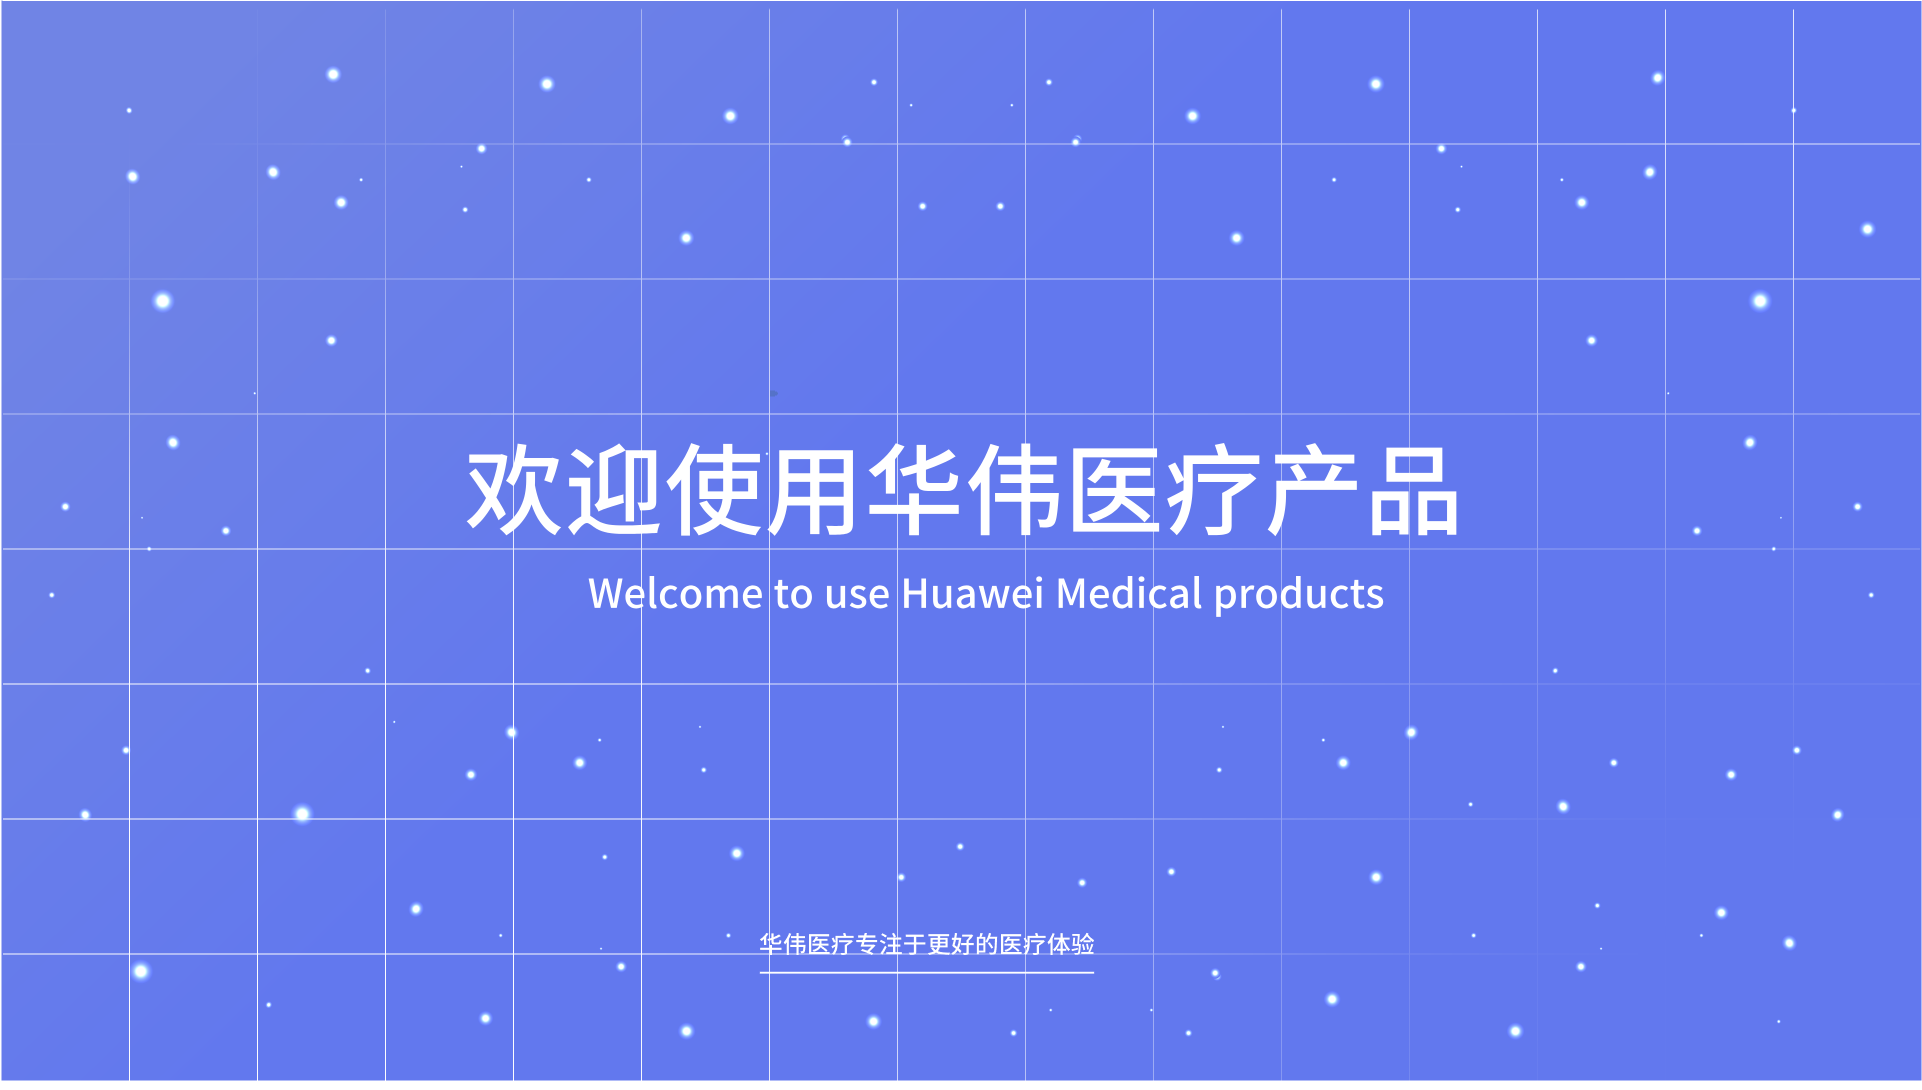
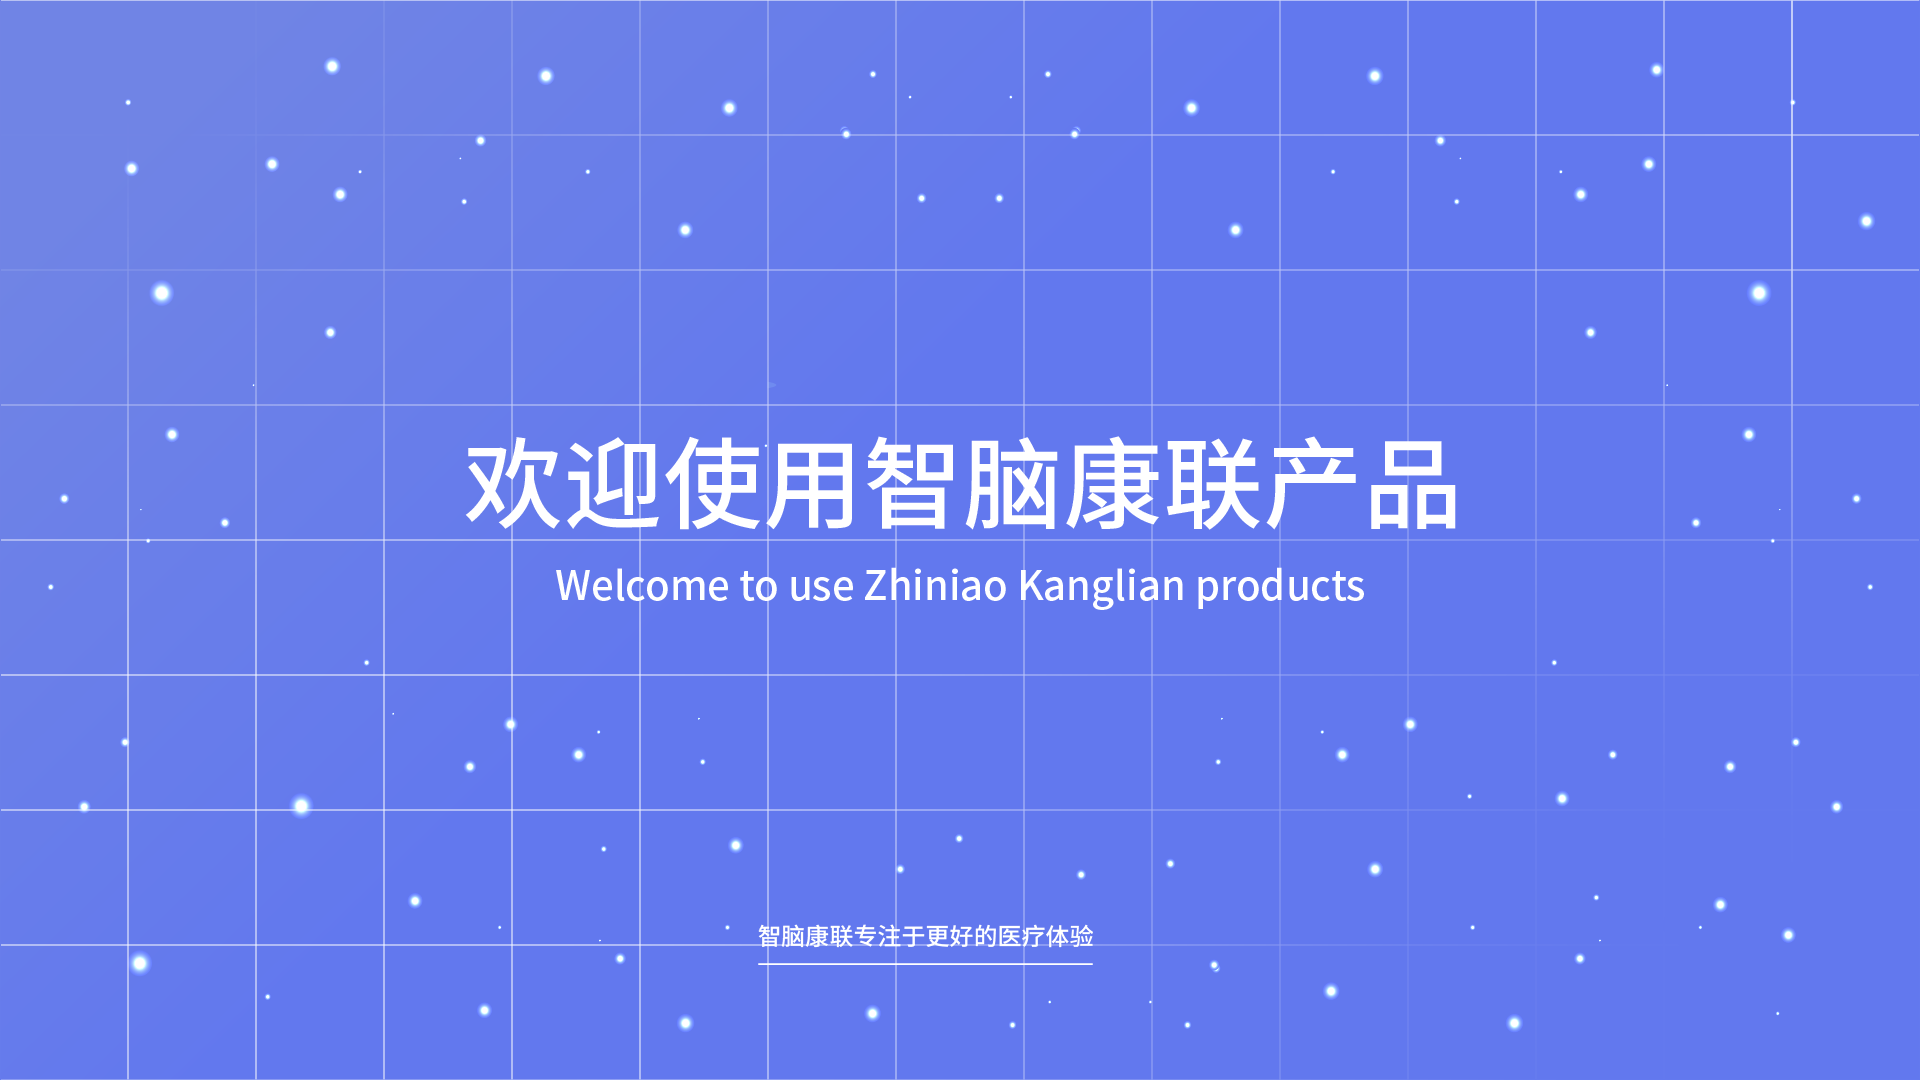
readme更新

diff --git a/readme.md b/readme.md
@@ -1,4 +1,4 @@
-打包命令：powershell -NoProfile -Command "if (!(Test-Path 'runtime')) { New-Item -ItemType Directory -Path 'runtime' | Out-Null }; pyinstaller -n HW_BCI_NES main.py --icon ui\pic\icon_BCI.ico --hidden-import ui.resources_rc --collect-all PySide6 --add-data 'db\HW_BCI.db;db' --add-data 'ui\*.ui;ui' --add-data 'ui\pic;ui/pic' --add-data 'ui\resources_rc.py;ui' --add-data 'infrastructure\config\config.json;infrastructure/config' --add-data 'runtime;runtime'"
+打包命令：powershell -NoProfile -Command "if (!(Test-Path 'runtime')) { New-Item -ItemType Directory -Path 'runtime' | Out-Null }; pyinstaller -n HW_BCI_FES main.py --icon ui\pic\icon_BCI.ico --hidden-import ui.resources_rc --collect-all PySide6 --add-data 'db\HW_BCI.db;db' --add-data 'ui\*.ui;ui' --add-data 'ui\pic;ui/pic' --add-data 'ui\resources_rc.py;ui' --add-data 'infrastructure\config\config.json;infrastructure/config' --add-data 'runtime;runtime'"
 
 
 任务栏/窗口图标由程序内 `setWindowIcon` 加载 `ui/pic/icon_BCI.png`（见 `ui/core/app_icon.py`）；`HW_BCI_NES.spec` 已将该文件打入 `ui/pic`。其余 `ui/pic` 资源、`ui/resources_rc.py` 若未写入 spec，仍需复制到 `dist/HW_BCI_NES/_internal/ui`。